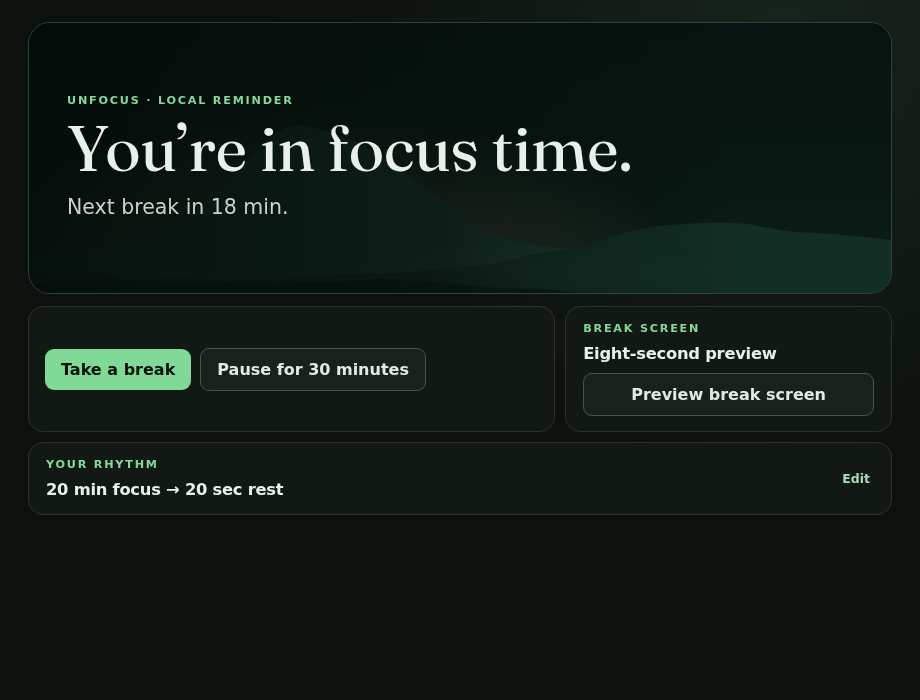
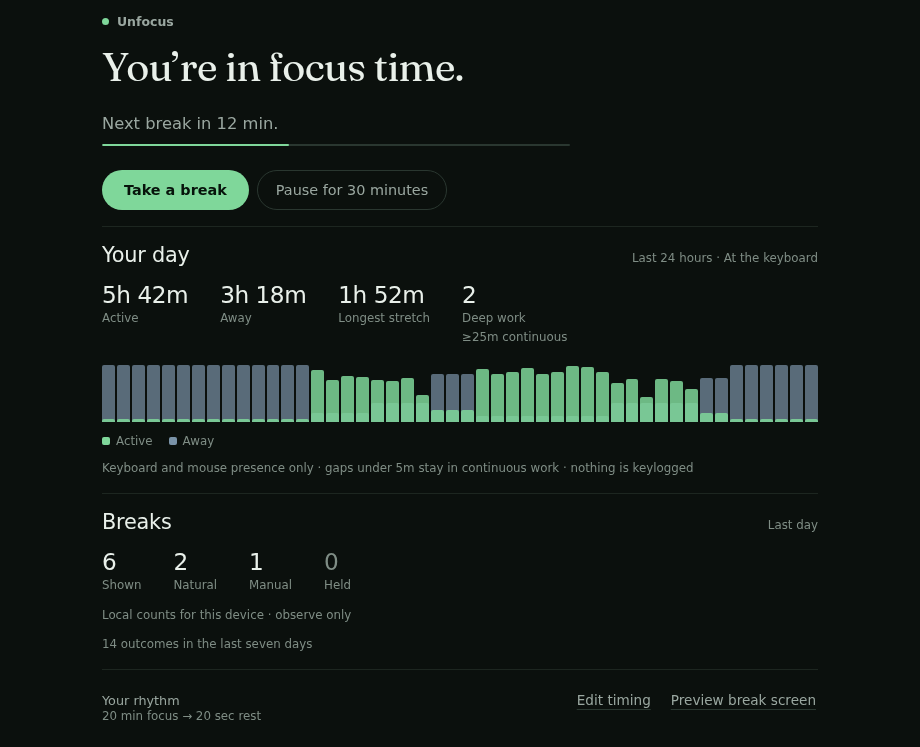
Update the README dashboard screenshot to the rebuilt layout
The previous capture predated the single-column rebuild and still showed the
scene-led hero and bordered cards. The new capture shows the focus countdown,
Your day activity strip, break outcome counts, and the saved rhythm footer.
Break-screen media is unchanged.

diff --git a/README.md b/README.md
@@ -143,7 +143,7 @@ missing, keep the dashboard open, enable or restart the desktop's indicator
 host, and restart Unfocus. A known setup error appears in the dashboard, and
 closing that dashboard exits instead of hiding an unreachable process.
 
-![The consumer dashboard showing focus time, reminder actions, and the saved rhythm](.github/media/dashboard.png)
+![The consumer dashboard with focus countdown, Your day activity strip, break outcomes, and saved rhythm](.github/media/dashboard.png)
 
 ## Build from source
 

diff --git a/CHANGELOG.md b/CHANGELOG.md
@@ -13,6 +13,12 @@ released versions link to their GitHub release.
   fades as the dawn state gathers. Reduced-motion preferences stop the motion
   entirely, leaving the stars at their resting brightness.
 
+### Changed
+
+- Updated the README consumer dashboard screenshot to the single-column layout
+  with **Your day** activity strip and break outcome counts. Break-screen media
+  is unchanged.
+
 ## [0.3.1-alpha.1] - 2026-08-12
 
 ### Added
